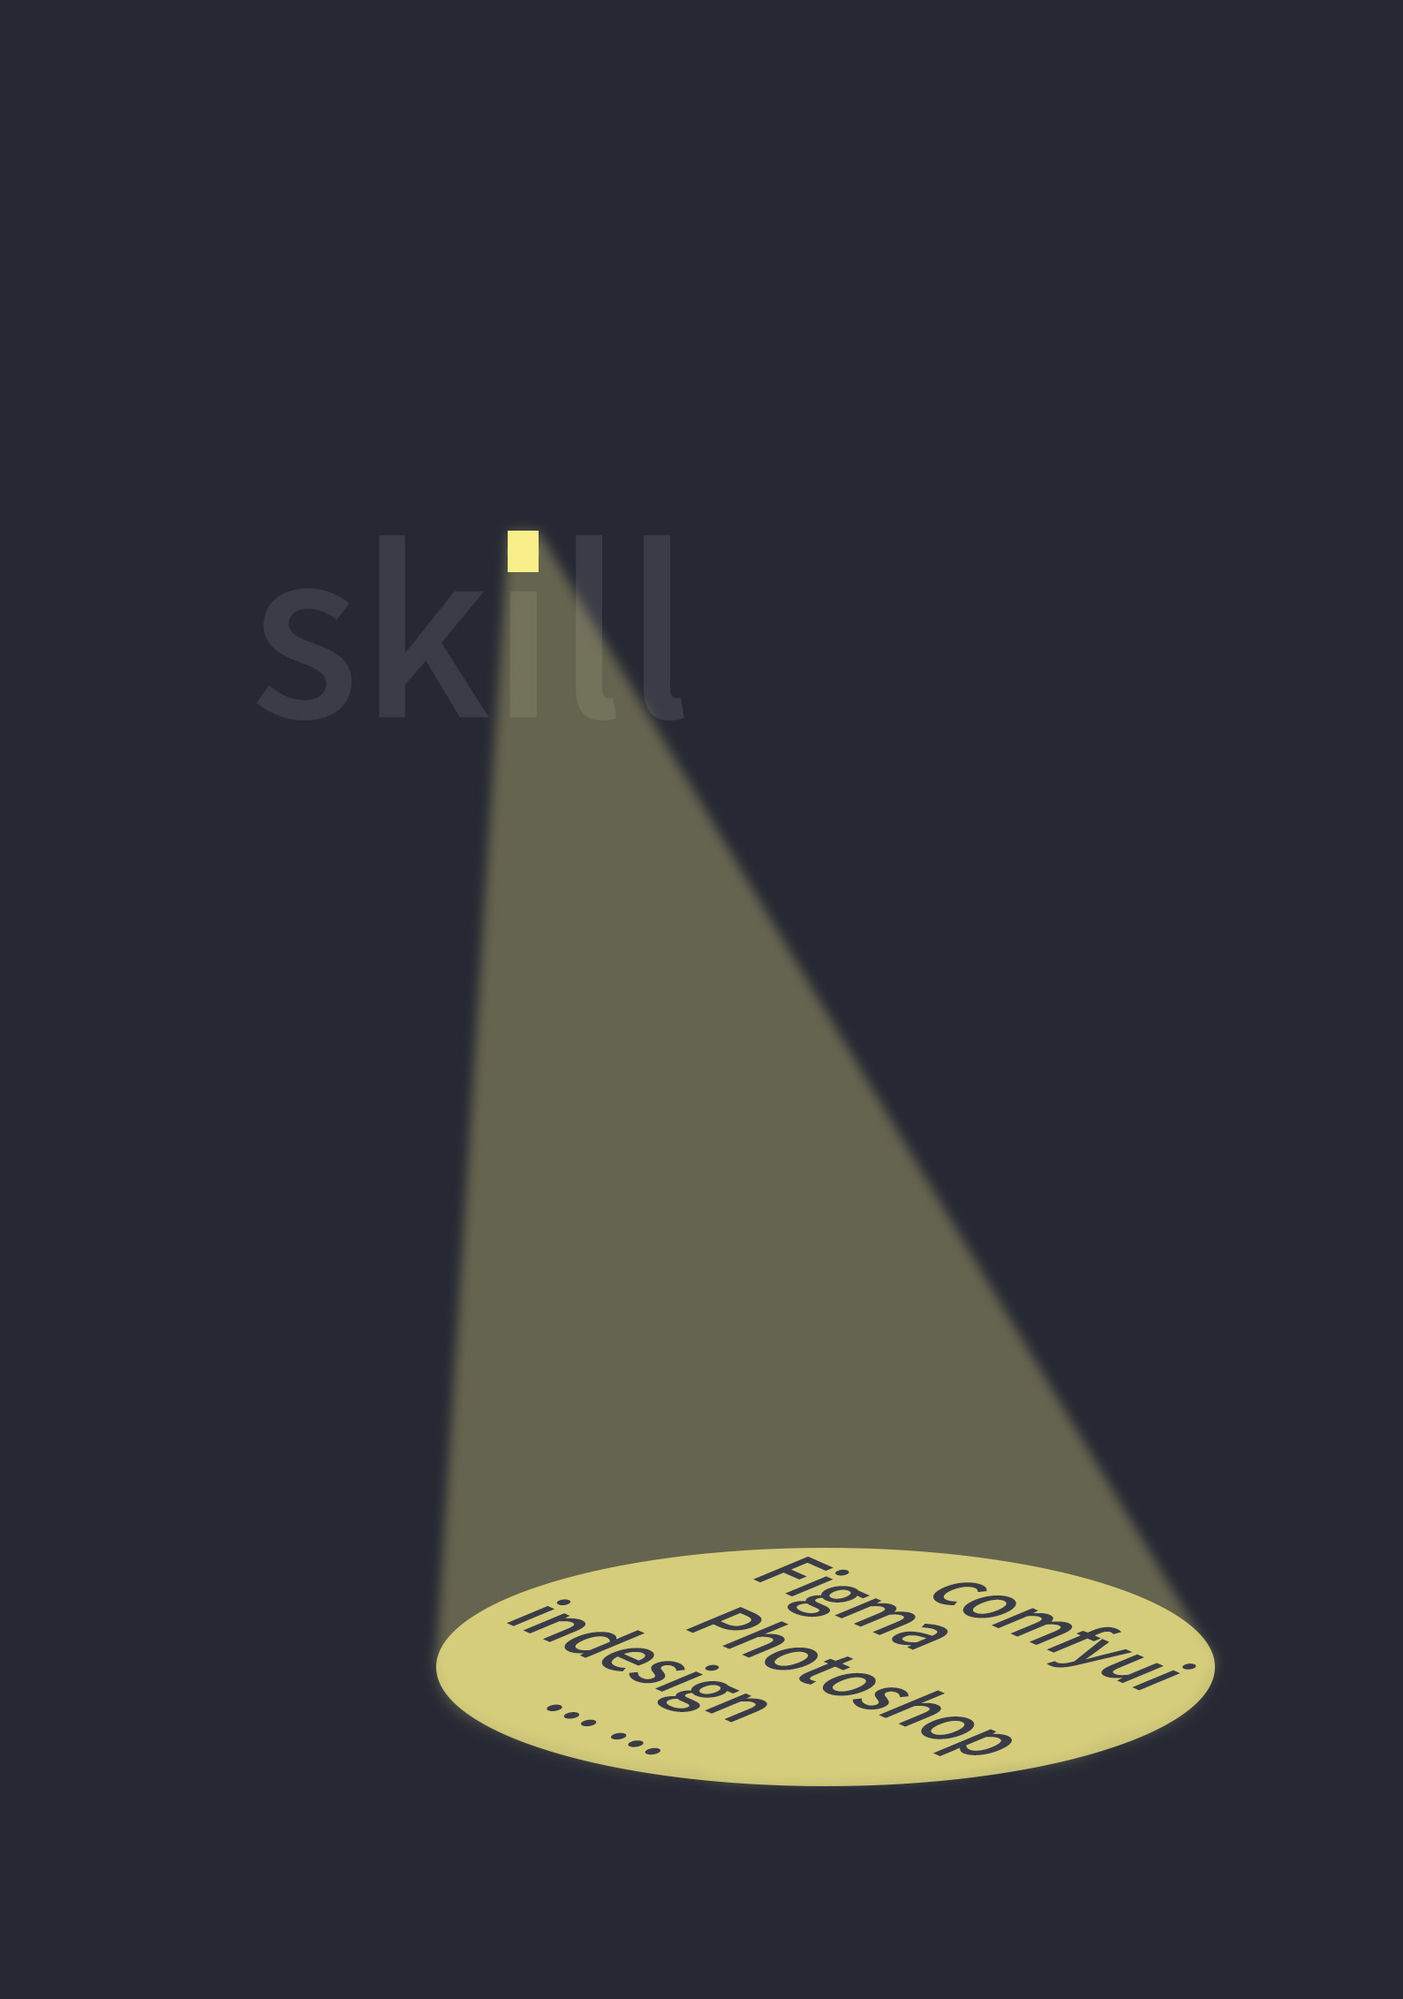
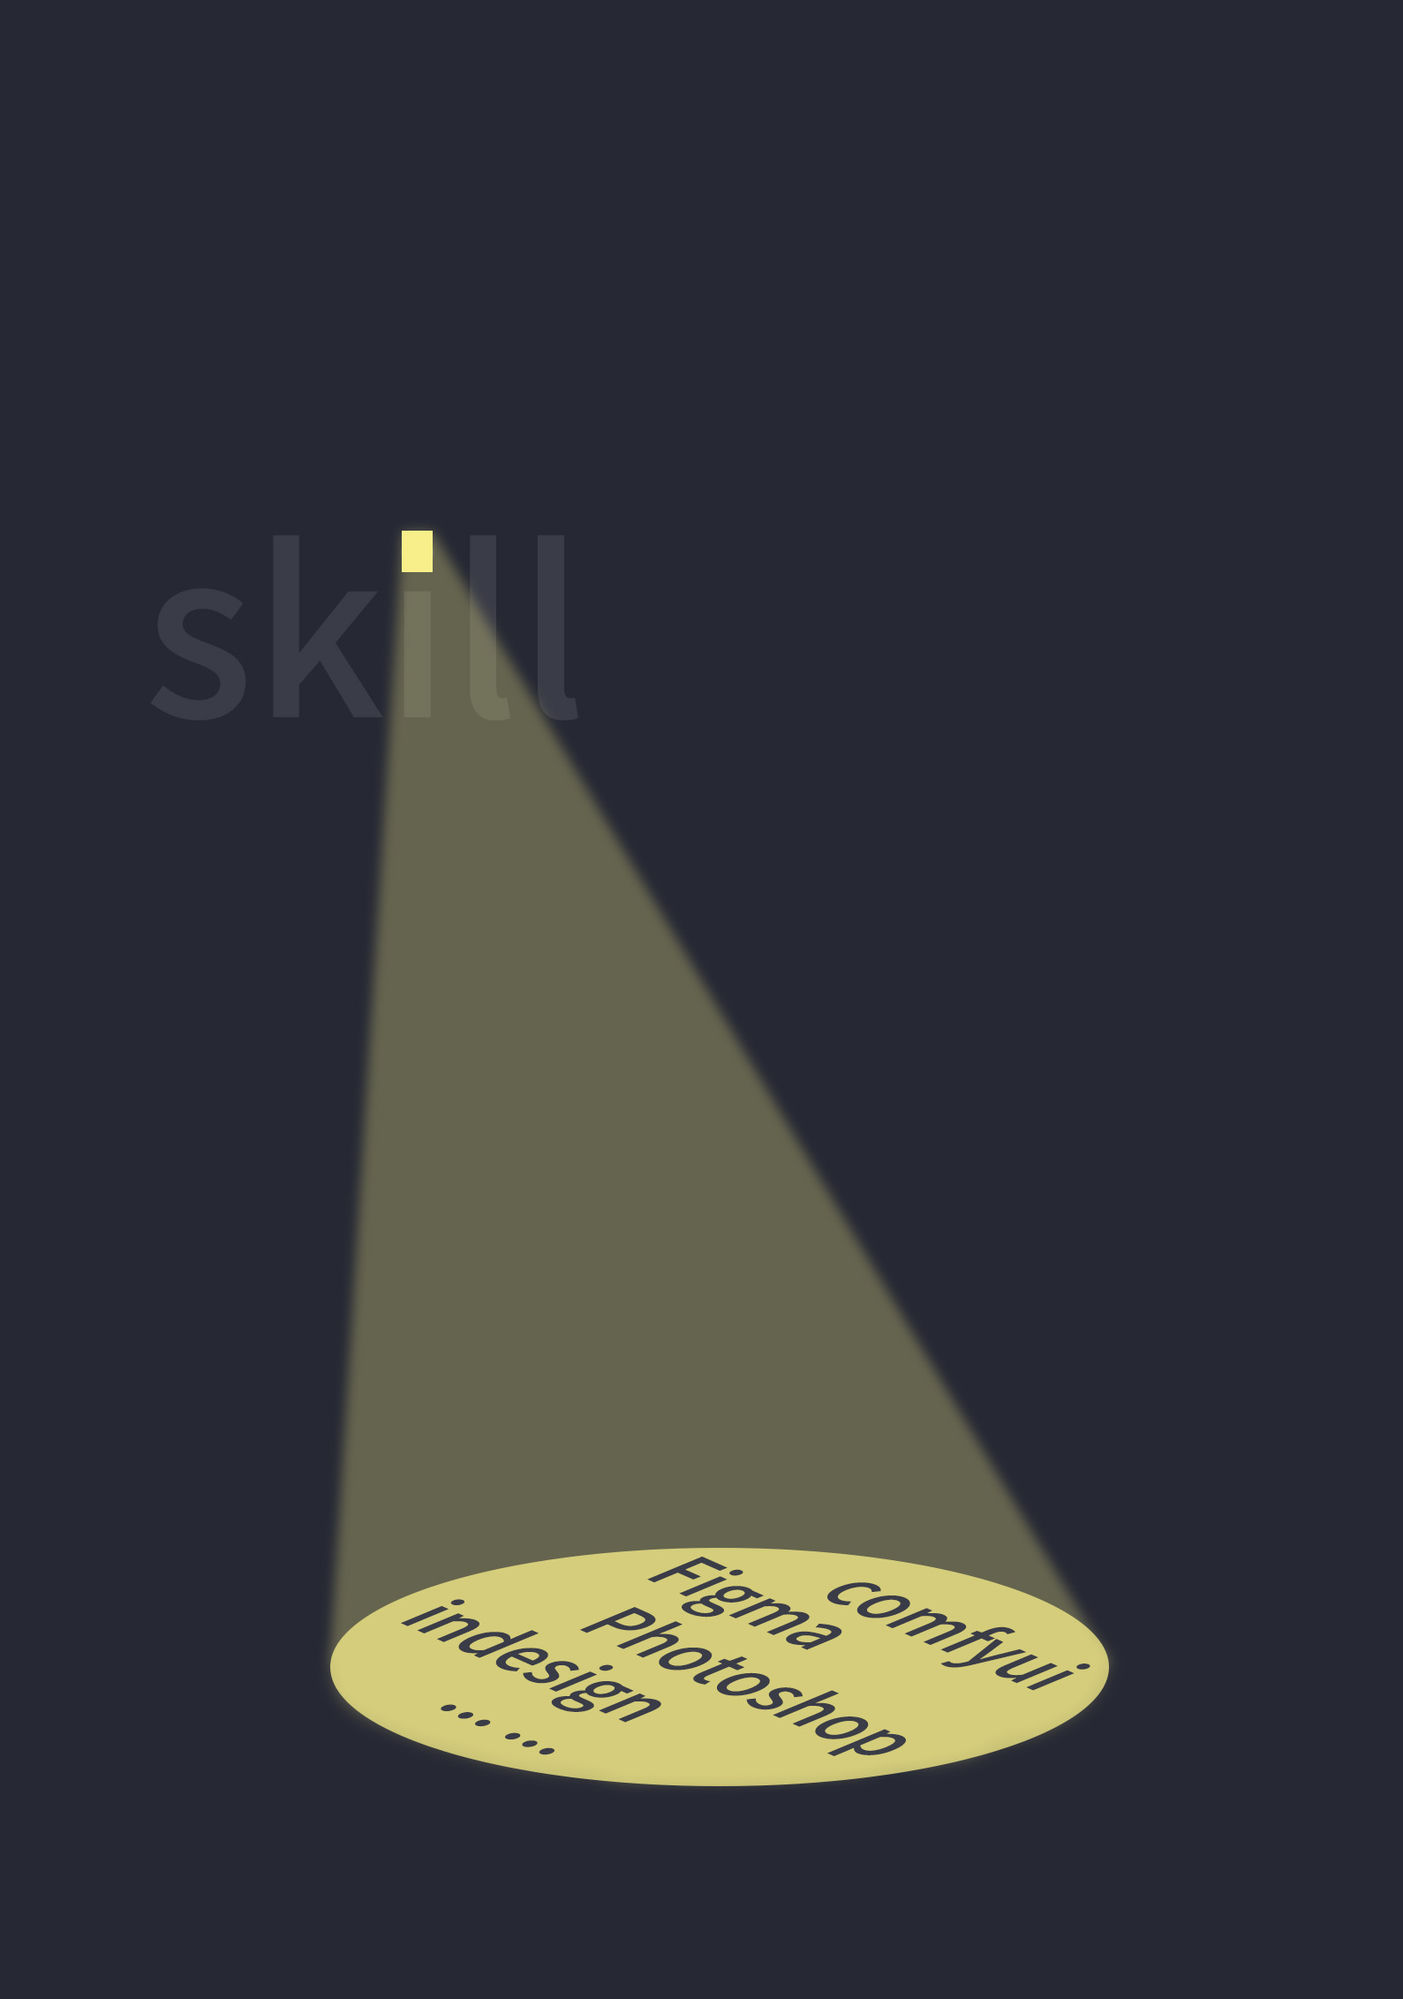
更新 04 卡片背景图片

Changed region(s): [[0.2145, 0.2481, 0.8888, 0.8994]]

diff --git a/index.html b/index.html
@@ -225,7 +225,6 @@
             height: 100%;
             background-color: rgba(255, 253, 254, 0.15);
             backdrop-filter: blur(20px);
-            border: 1px solid rgba(255, 255, 255, 0.9);
             border-radius: 16px;
             display: flex;
             flex-direction: column;
@@ -329,7 +328,7 @@
         <a href="#" data-book="1">作品一览</a>
         <a href="#" data-book="2">联系方式</a>
         <a href="#" data-book="3">技能特长</a>
-        <a href="#" data-book="4">项目案例</a>
+        <a href="#" data-book="4">其他</a>
     </nav>
 
     <main>
@@ -375,17 +374,17 @@
 
                 <!-- 卡片4：技能特长 -->
                 <div class="book" data-id="3">
-                    <div class="book-face" style="background-image: url('images/04-card.jpg'); background-size: cover; background-position: center; background-color: transparent;">
+                    <div class="book-face" style="background-image: url('images/04-card.jpg'); background-size: cover; background-position: right center; background-color: transparent;">
                         <div class="number">04</div>
                         <h3>技能特长</h3>
                     </div>
                 </div>
 
-                <!-- 卡片5：项目案例 -->
+                <!-- 卡片5：其他 -->
                 <div class="book" data-id="4">
                     <div class="book-face">
                         <div class="number">05</div>
-                        <h3>项目案例</h3>
+                        <h3>其他</h3>
                     </div>
                 </div>
             </div>